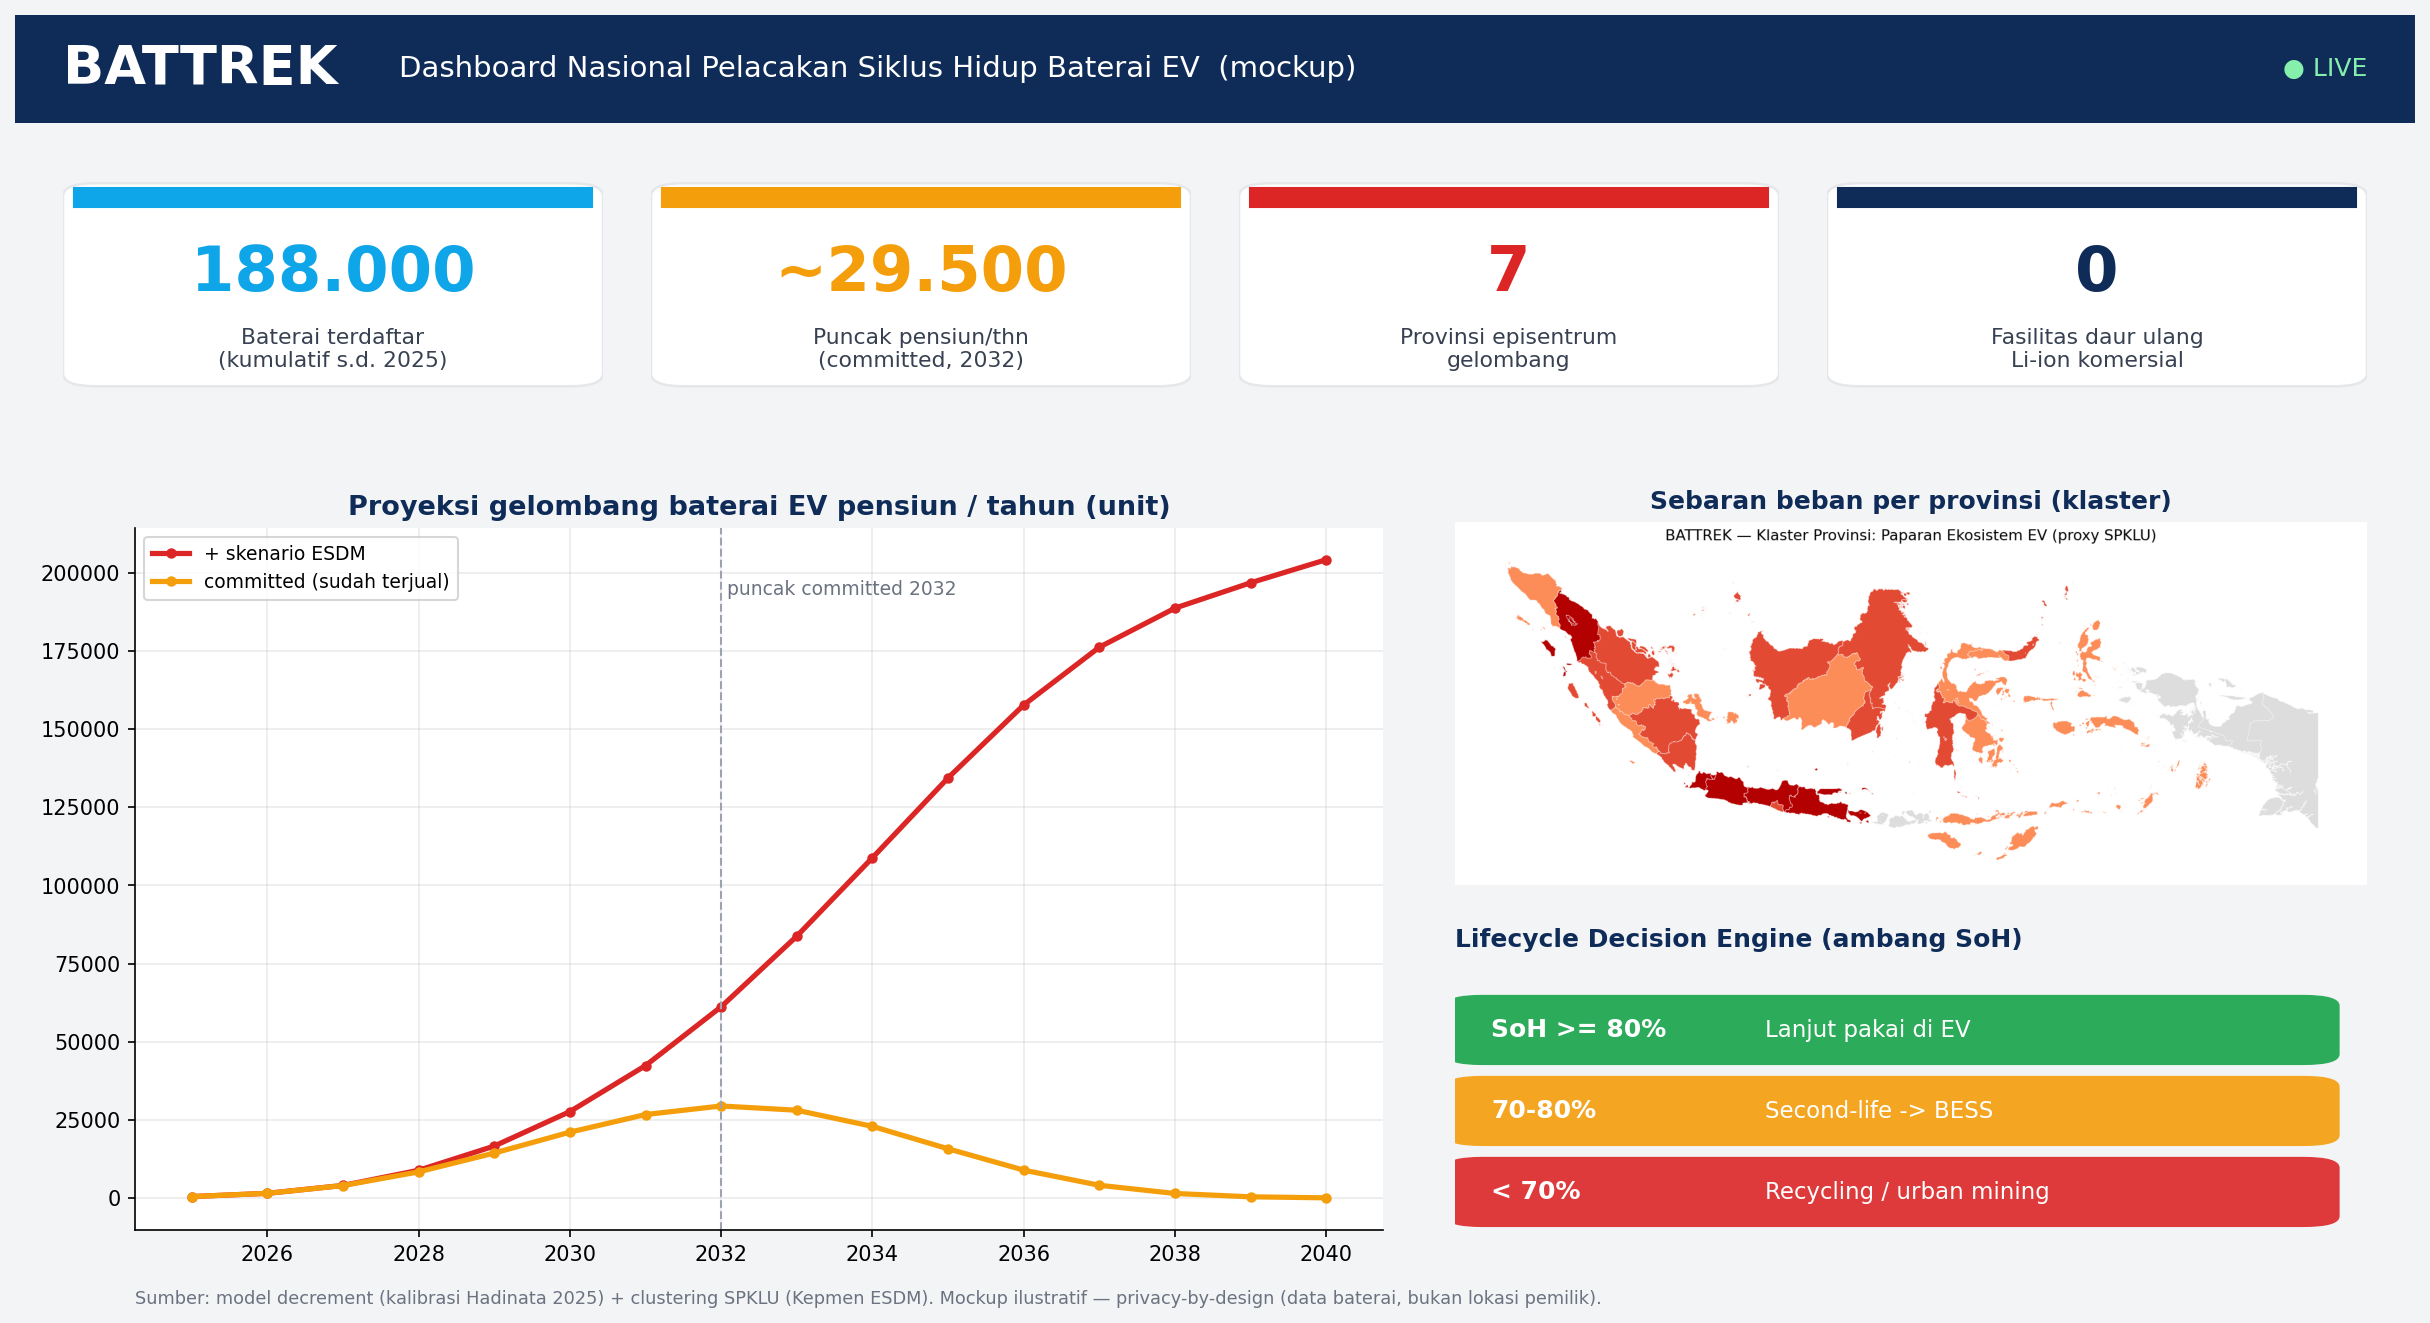
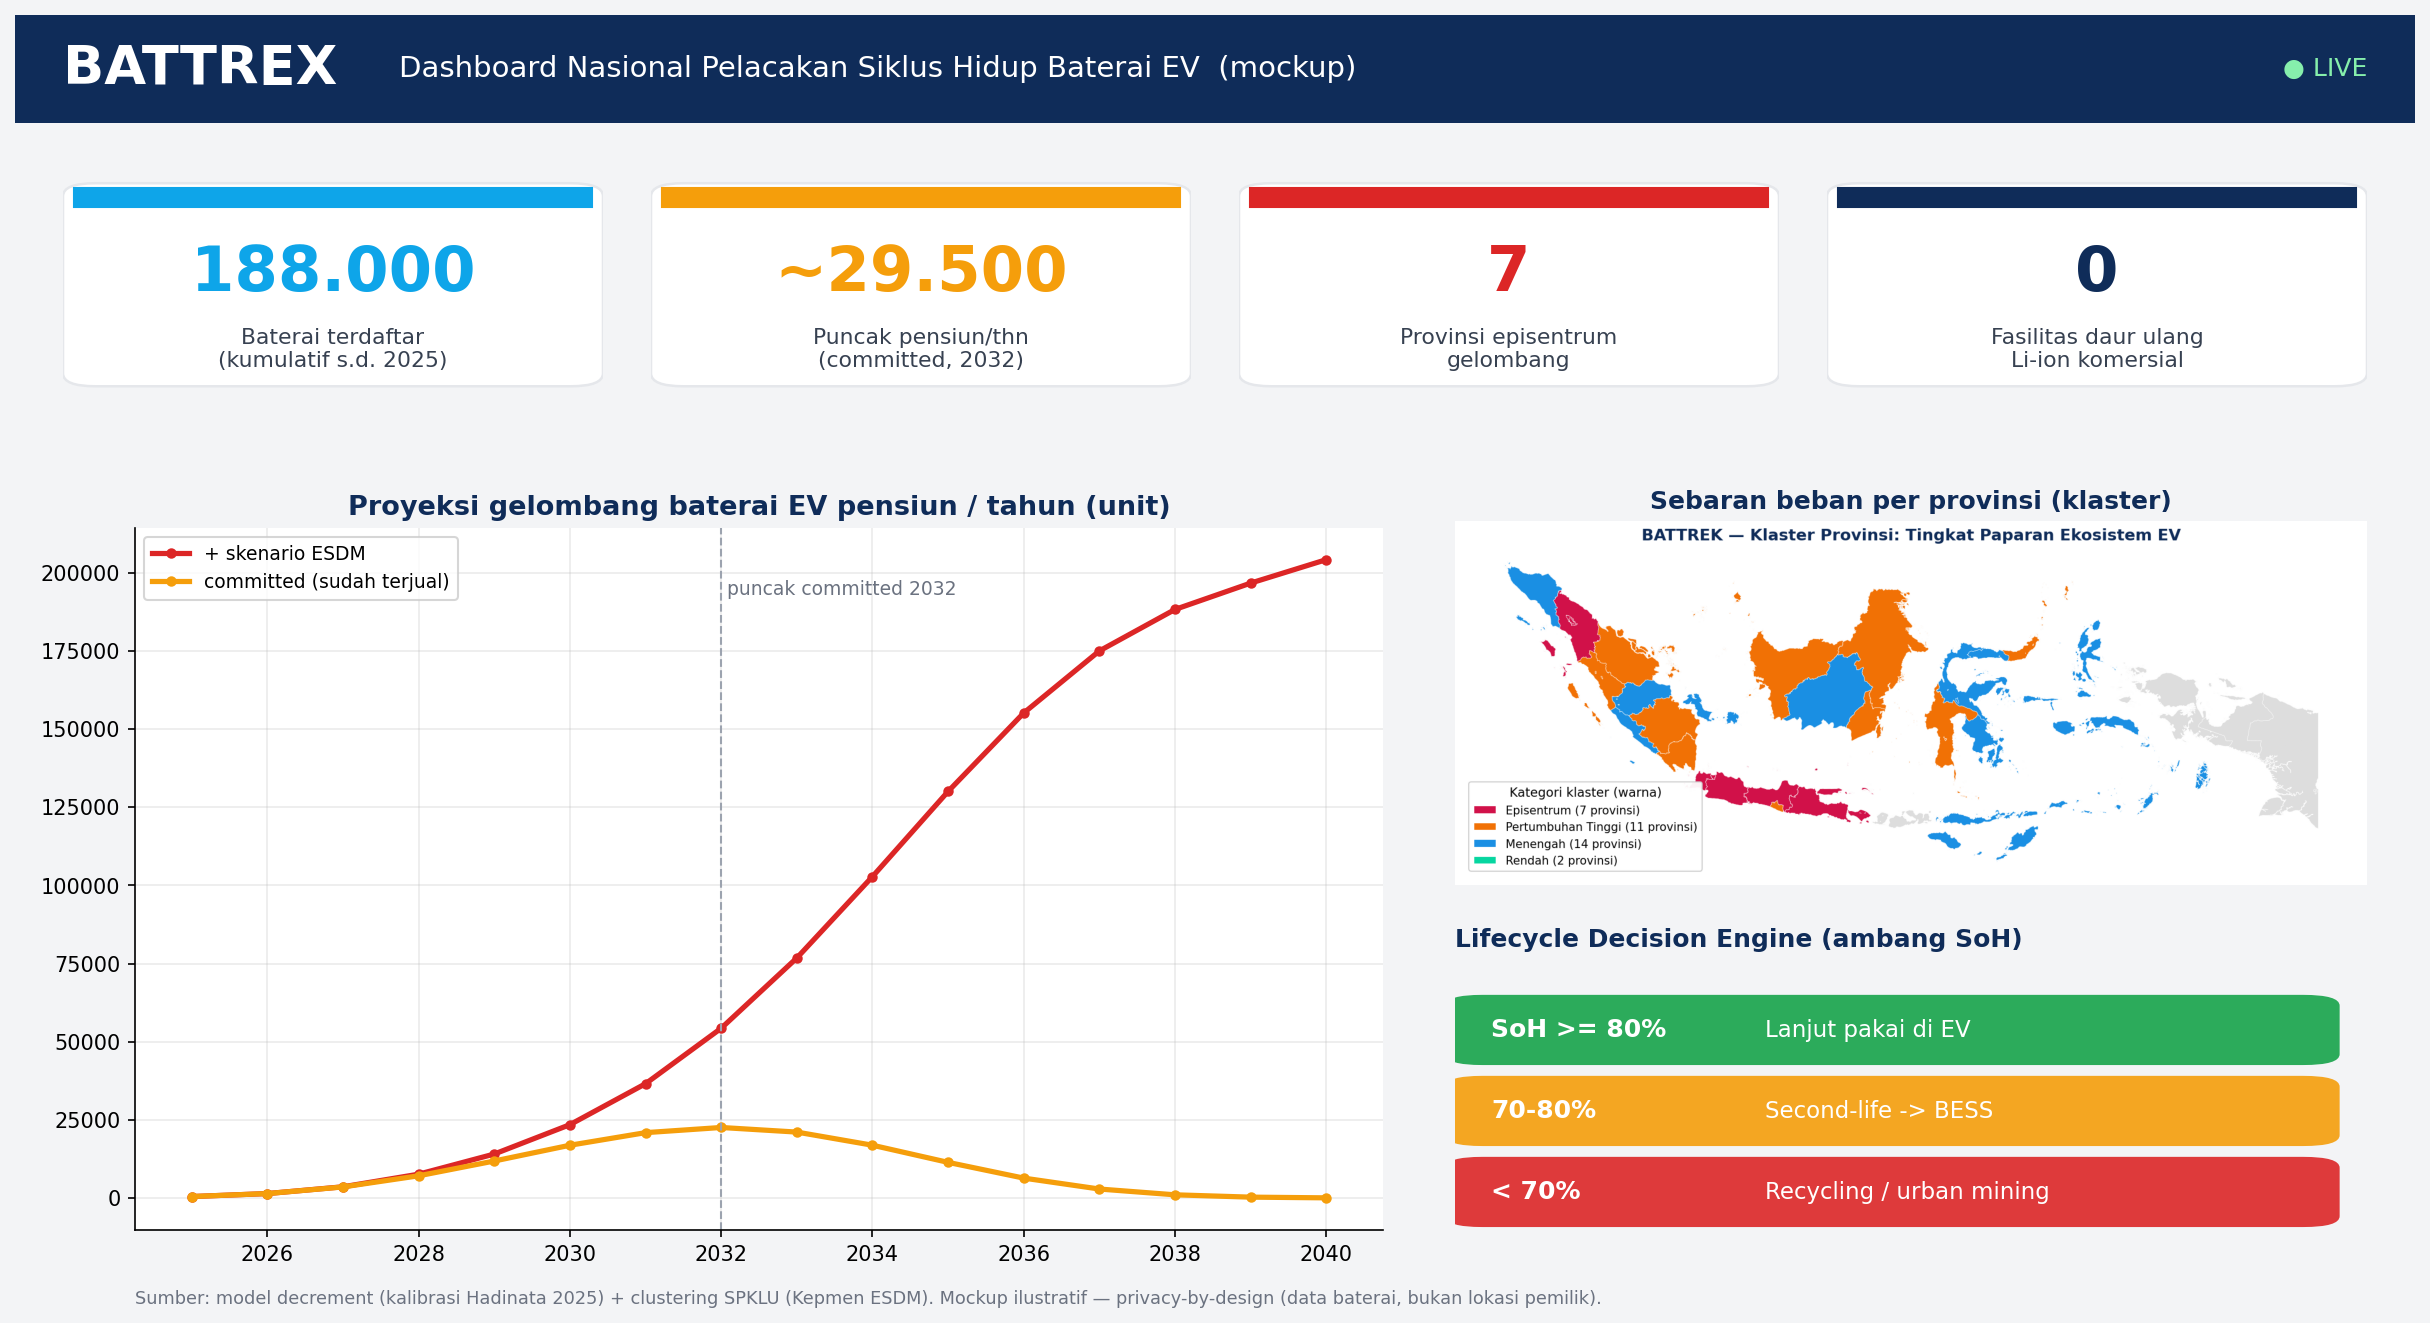
Rebranding BATTREK -> BATTREX di seluruh dokumentasi, script, dan figur

diff --git a/scripts/viz_battrek.py b/scripts/viz_battrek.py
@@ -1,7 +1,7 @@
 """
-BATTREK — generator visualisasi untuk laporan komprehensif.
+BATTREX — generator visualisasi untuk laporan komprehensif.
 Menghasilkan: data deskriptif (populasi, pangsa pasar, komposisi, penjualan BEV)
-+ 2 flow BATTREK (mikro-fitur & makro-ekosistem).
++ 2 flow BATTREX (mikro-fitur & makro-ekosistem).
 Sumber data: GAIKINDO/Kemenperin & SRUT Kemenhub (Bahan Dirjen ILMATE GIIAS, 31 Jul 2025).
 Output PNG -> ../figures/
 """
@@ -90,9 +90,9 @@ def arrow(ax,x1,y1,x2,y2,color=NAVY,style="-|>"):
     ax.add_patch(FancyArrowPatch((x1,y1),(x2,y2),arrowstyle=style,mutation_scale=18,
                  color=color,lw=2,shrinkA=2,shrinkB=2))
 
-# ---------- 5. Flow MIKRO (fitur BATTREK) ----------
+# ---------- 5. Flow MIKRO (fitur BATTREX) ----------
 fig,ax=plt.subplots(figsize=(14,5)); ax.set_xlim(0,14); ax.set_ylim(0,5); ax.axis("off")
-ax.set_title("Alur Mikro - Cara Kerja Fitur BATTREK (siklus hidup satu baterai)",fontsize=13,fontweight="bold",color=NAVY)
+ax.set_title("Alur Mikro - Cara Kerja Fitur BATTREX (siklus hidup satu baterai)",fontsize=13,fontweight="bold",color=NAVY)
 box(ax,0.2,2.0,2.2,1.1,"1. Battery\nRegistry & ID",NAVY)
 box(ax,2.9,2.0,2.2,1.1,"2. SoH Monitoring\n(ML)",TEAL)
 box(ax,5.6,2.0,2.2,1.1,"3. Decision\nEngine (SoH)",ORANGE)
@@ -108,8 +108,8 @@ save(fig,"battrek_flow_mikro.png")
 
 # ---------- 6. Flow MAKRO (ekosistem) ----------
 fig,ax=plt.subplots(figsize=(13,8.5)); ax.set_xlim(0,13); ax.set_ylim(0,9); ax.axis("off")
-ax.set_title("Alur Makro - Ekosistem & Pemangku Kepentingan BATTREK",fontsize=14,fontweight="bold",color=NAVY)
-box(ax,5.0,4.0,3.0,1.4,"BATTREK\nPlatform Nasional\n(registri + dashboard)",NAVY,fs=11)
+ax.set_title("Alur Makro - Ekosistem & Pemangku Kepentingan BATTREX",fontsize=14,fontweight="bold",color=NAVY)
+box(ax,5.0,4.0,3.0,1.4,"BATTREX\nPlatform Nasional\n(registri + dashboard)",NAVY,fs=11)
 box(ax,0.4,6.8,2.8,1.0,"Produsen / Importir\nbaterai & EV",TEAL,fs=9)
 box(ax,0.4,1.2,2.8,1.0,"Pemilik EV + Bengkel/\nUji berkala",TEAL,fs=9)
 box(ax,5.2,7.6,2.6,1.0,"Regulator\nESDM-KLHK-Kemenperin",ORANGE,fs=9)

diff --git a/scripts/cluster_provinsi_battrek.py b/scripts/cluster_provinsi_battrek.py
@@ -1,5 +1,5 @@
 """
-BATTREK — Pilar 3: Clustering Provinsi (paparan & kesiapan ekosistem EV)
+BATTREX — Pilar 3: Clustering Provinsi (paparan & kesiapan ekosistem EV)
 ========================================================================
 Segmentasi 34 provinsi berdasarkan skala & lintasan infrastruktur SPKLU
 (proxy resmi sebaran EV; SPKLU dialokasikan per kepadatan ekosistem EV,
@@ -153,7 +153,7 @@ try:
             ax.add_patch(MplPoly(pts, closed=True, facecolor=col,
                                  edgecolor='white', linewidth=0.3))
     ax.autoscale(); ax.set_aspect('equal'); ax.axis('off')
-    ax.set_title('BATTREK — Klaster Provinsi: Tingkat Paparan Ekosistem EV',
+    ax.set_title('BATTREX — Klaster Provinsi: Tingkat Paparan Ekosistem EV',
                  fontsize=14, fontweight='bold', color='#0f2c59')
     from matplotlib.patches import Patch
     leg = [Patch(facecolor=colors.get(t, '#cbd5e1'), edgecolor='white',

diff --git a/scripts/model_decrement_battrek.py b/scripts/model_decrement_battrek.py
@@ -1,5 +1,5 @@
 """
-BATTREK — Model Decrement / Kohort-Survival Gelombang Limbah Baterai EV Indonesia
+BATTREX — Model Decrement / Kohort-Survival Gelombang Limbah Baterai EV Indonesia
 =================================================================================
 Pass-1 build. Kalibrasi parameter dari Hadinata dkk. (2025),
 "Electric Car Battery Waste in Indonesia", DOI 10.13170/aijst.14.1.43071,

diff --git a/scripts/viz_banding.py b/scripts/viz_banding.py
@@ -1,5 +1,5 @@
 """
-BATTREK — grafik perbandingan internasional pangsa penjualan mobil listrik (EV share).
+BATTREX — grafik perbandingan internasional pangsa penjualan mobil listrik (EV share).
 Sumber: IEA Global EV Outlook 2026 (EV Data Explorer), parameter 'EV sales share', Cars, EV (BEV+PHEV), %.
 Output: ../figures/viz_banding_asean_eu.png
 """

diff --git a/scripts/viz_pertumbuhan_dan_spklu.py b/scripts/viz_pertumbuhan_dan_spklu.py
@@ -1,5 +1,5 @@
 """
-BATTREK — 2 visualisasi tambahan (perbandingan internasional).
+BATTREX — 2 visualisasi tambahan (perbandingan internasional).
 Sumber: IEA Global EV Outlook 2026 (EV Data Explorer) + dataset
 'number of electric LDV per public charging point 2025' (IEA).
 Output: ../figures/viz_pertumbuhan_pangsa.png, ../figures/viz_ev_per_spklu.png

diff --git a/README.md b/README.md
@@ -1,6 +1,6 @@
-# BATTREK — Data & Reproducibility (SIC 2026)
+# BATTREX — Data & Reproducibility (SIC 2026)
 
-Repositori ini berisi **data, kode, sumber, dan hasil** yang dipakai untuk infografis **BATTREK** (Statistics Infographics Competition / SATRIA DATA 2026, sub-tema *Transisi Energi dan Tantangan Industri Nasional*).
+Repositori ini berisi **data, kode, sumber, dan hasil** yang dipakai untuk infografis **BATTREX** (Statistics Infographics Competition / SATRIA DATA 2026, sub-tema *Transisi Energi dan Tantangan Industri Nasional*).
 
 > **Tujuan repo ini:** memungkinkan **validasi & reproduksi**. Juri/pembaca dapat memeriksa data yang dipakai dan **menghasilkan ulang** seluruh angka & grafik infografis. (Laporan/deskripsi sengaja TIDAK disertakan di sini.)
 
@@ -8,7 +8,7 @@ Repositori ini berisi **data, kode, sumber, dan hasil** yang dipakai untuk infog
 
 ## Struktur folder
 ```
-BATTREK_SIC_GITHUB/
+BATTREX_SIC_GITHUB/
 ├── data/        Data input & output olahan (xlsx, csv, json)
 ├── scripts/     Kode Python reproducible (model + visualisasi)
 ├── figures/     Grafik & peta hasil generate (PNG)

diff --git a/sources/SUMBER_DATA_LINKS.md b/sources/SUMBER_DATA_LINKS.md
@@ -1,4 +1,4 @@
-# Sumber & Tautan Data — BATTREK
+# Sumber & Tautan Data — BATTREX
 
 Daftar seluruh sumber yang dipakai beserta tautan unduh resmi, agar dapat diverifikasi. Berkas yang relevan tersedia di folder `data/` dan `sources/` repo ini.
 